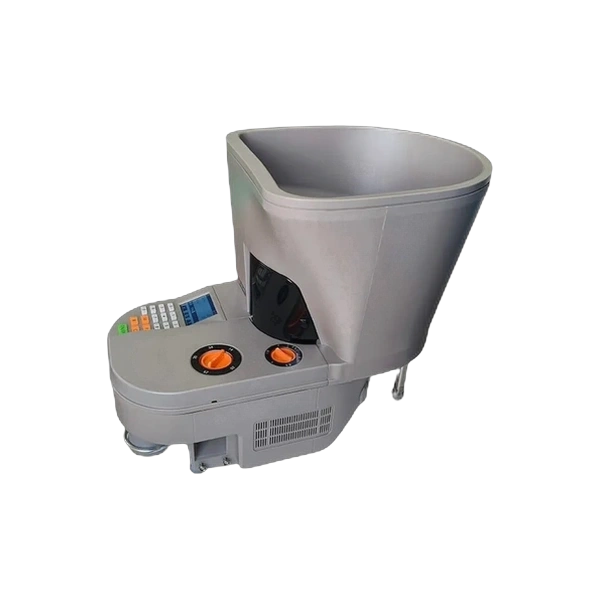
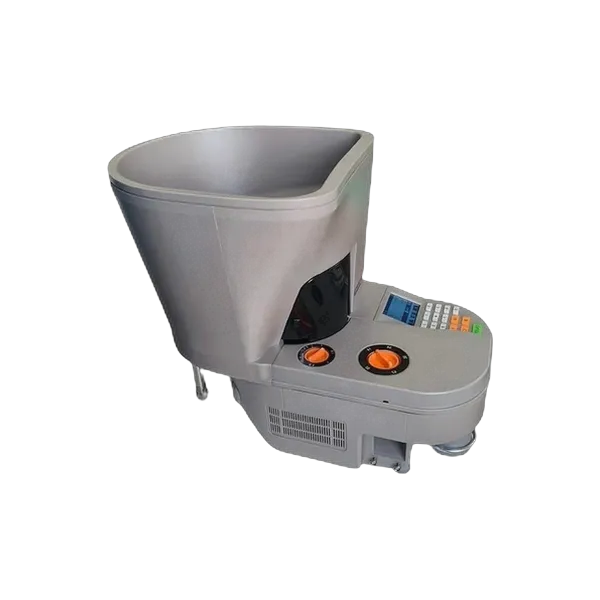
Fix image orientations and brightness, bump cache

Changed region(s): [[0.18, 0.21, 0.84, 0.81]]

diff --git a/src/lib/static-data.ts b/src/lib/static-data.ts
@@ -82,7 +82,7 @@ export const STATIC_PRODUCTS = [
     category: { slug: "contadoras-monedas", name: "Contadoras de Monedas" },
     brand: { slug: "amc", name: "AMC" },
     images: [
-      { id: "img-1-1", url: "/uploads/products/amc-cm3400/img-01.webp?v=2", alt: "AMC-CM3400 vista frontal", isPrimary: true },
+      { id: "img-1-1", url: "/uploads/products/amc-cm3400/img-01.webp?v=3", alt: "AMC-CM3400 vista frontal", isPrimary: true },
       { id: "img-1-2", url: "/uploads/products/amc-cm3400/img-02.webp", alt: "AMC-CM3400 vista lateral", isPrimary: false },
       { id: "img-1-3", url: "/uploads/products/amc-cm3400/img-03.webp", alt: "AMC-CM3400 vista superior", isPrimary: false },
       { id: "img-1-4", url: "/uploads/products/amc-cm3400/img-04.webp", alt: "AMC-CM3400 detalle pantalla", isPrimary: false },
@@ -257,7 +257,7 @@ export const STATIC_PRODUCTS = [
     category: { slug: "clasificadoras-billetes", name: "Clasificadoras de Billetes" },
     brand: { slug: "amc", name: "AMC" },
     images: [
-      { id: "img-8-1", url: "/uploads/products/amc-9200/img-01.webp", alt: "AMC-9200 vista frontal", isPrimary: true },
+      { id: "img-8-1", url: "/uploads/products/amc-9200/img-01.webp?v=2", alt: "AMC-9200 vista frontal", isPrimary: true },
     ],
     videos: [],
     documents: [